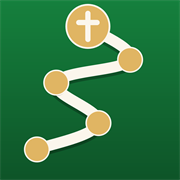
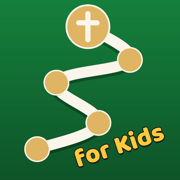
Jatek frissitve - 2026-11-06 17:00

diff --git a/index.html b/index.html
@@ -4,13 +4,13 @@
 <meta charset="utf-8">
 <script>/* az appon belul (regi buildek tartalek cime) egyenesen a jatek nyiljon */ if(window.ReactNativeWebView) location.replace("https://bibletravel.co.uk/play.html");</script>
 <meta name="viewport" content="width=device-width,initial-scale=1,viewport-fit=cover">
-<title>BibleTravel – A free Bible game for children</title>
+<title>BibleTravel for Kids – A free Bible game for children</title>
 <meta name="description" content="BibleTravel (in Hungarian: Bibliaút, Biblia Travel) is a free Bible game for children aged 7–14: 418 short Bible stories from Creation to Revelation, with quizzes, treasure chests and Bible heroes to collect. In English and Hungarian. Play in your browser, no sign-up, no ads.">
 <link rel="canonical" href="https://bibletravel.co.uk/">
 <meta property="og:type" content="website">
 <meta property="og:site_name" content="BibleTravel">
 <meta property="og:url" content="https://bibletravel.co.uk/">
-<meta property="og:title" content="BibleTravel – A journey through the Bible">
+<meta property="og:title" content="BibleTravel for Kids – A journey through the Bible">
 <meta property="og:description" content="A free Bible game for children aged 7–14. Short stories, quizzes, treasure chests and Bible heroes. In English and Hungarian.">
 <meta property="og:image" content="https://bibletravel.co.uk/kezdolap/og.png">
 <meta property="og:image:width" content="1200">
@@ -20,7 +20,7 @@
 <meta name="twitter:card" content="summary_large_image">
 <meta name="twitter:image" content="https://bibletravel.co.uk/kezdolap/og.png">
 <link rel="apple-touch-icon" href="https://bibletravel.co.uk/kezdolap/ikon.png">
-<script type="application/ld+json">{"@context":"https://schema.org","@graph":[{"@type":"WebSite","name":"BibleTravel","alternateName":["Bibliaút","Biblia Travel","Bible Travel"],"url":"https://bibletravel.co.uk/","inLanguage":["en","hu"]},{"@type":"VideoGame","name":"BibleTravel","alternateName":["Bibliaút","Biblia Travel","Bible Travel"],"url":"https://bibletravel.co.uk/","description":"A free Bible game for children aged 7–14: 418 short Bible stories from Creation to Revelation, with quizzes, treasure chests and Bible heroes to collect. In English and Hungarian.","image":"https://bibletravel.co.uk/kezdolap/og.png","genre":["Educational","Bible","Quiz"],"inLanguage":["en","hu"],"audience":{"@type":"PeopleAudience","suggestedMinAge":7,"suggestedMaxAge":14},"gamePlatform":["Web browser","iOS","Android"],"applicationCategory":"EducationalApplication","operatingSystem":"Any (web browser)","offers":{"@type":"Offer","price":"0","priceCurrency":"GBP"}}]}</script>
+<script type="application/ld+json">{"@context":"https://schema.org","@graph":[{"@type":"WebSite","name":"BibleTravel","alternateName":["BibleTravel for Kids","Bibliaút","Biblia Travel","Bible Travel"],"url":"https://bibletravel.co.uk/","inLanguage":["en","hu"]},{"@type":"VideoGame","name":"BibleTravel","alternateName":["Bibliaút","Biblia Travel","Bible Travel"],"url":"https://bibletravel.co.uk/","description":"A free Bible game for children aged 7–14: 418 short Bible stories from Creation to Revelation, with quizzes, treasure chests and Bible heroes to collect. In English and Hungarian.","image":"https://bibletravel.co.uk/kezdolap/og.png","genre":["Educational","Bible","Quiz"],"inLanguage":["en","hu"],"audience":{"@type":"PeopleAudience","suggestedMinAge":7,"suggestedMaxAge":14},"gamePlatform":["Web browser","iOS","Android"],"applicationCategory":"EducationalApplication","operatingSystem":"Any (web browser)","offers":{"@type":"Offer","price":"0","priceCurrency":"GBP"}}]}</script>
 <meta name="theme-color" content="#5B3FD1">
 <link rel="icon" href="https://bibletravel.co.uk/kezdolap/ikon.png">
 <link rel="stylesheet" href="fonts/spectral.css">
@@ -43,6 +43,9 @@ h1,h2,h3{font-family:Spectral,Georgia,serif;line-height:1.15;text-wrap:balance;m
 a{color:var(--brand)}
 .wrap{max-width:1100px;margin:0 auto;padding-inline:20px}
 
+/* "for Kids" jel (Zsolt dontese, 2026-11-06): napsarga betuk fekete korvonallal, a nev utan */
+@font-face{font-family:"BT Kids";src:url(fonts/baloo2-800-forkids.woff2) format("woff2");font-weight:800;font-display:block}
+.fkjel{font:800 .62em/1 "BT Kids","Baloo 2",system-ui,sans-serif;color:#FFC93C;-webkit-text-stroke:.08em #1A1A1A;paint-order:stroke fill;text-shadow:0 .07em 0 #1A1A1A;white-space:nowrap;letter-spacing:.01em;margin-left:.3em;-webkit-text-fill-color:#FFC93C}
 /* felso sav */
 .top{display:flex;align-items:center;justify-content:space-between;gap:12px;padding-block:16px}
 .logo{display:flex;align-items:center;gap:10px;font:700 20px Spectral,Georgia,serif;color:var(--text);text-decoration:none}
@@ -54,7 +57,9 @@ a{color:var(--brand)}
 /* nyito resz */
 .hos{display:grid;grid-template-columns:minmax(0,1.15fr) minmax(0,.85fr);gap:48px;align-items:center;padding-block:32px 64px}
 .hosszoveg{display:flex;flex-direction:column;align-items:flex-start}
-.hos h1{display:flex;align-items:center;gap:16px}
+.hos h1{display:flex;align-items:center;gap:16px;flex-wrap:wrap;justify-content:inherit}
+.hos h1 .fkjel{margin-left:-8px;align-self:center;margin-top:.32em;background:none}
+.hos h1{flex-wrap:nowrap!important;font-size:clamp(30px,5.6vw,64px)!important}
 .hos h1 img{width:clamp(48px,6vw,64px);height:auto;border-radius:16px;box-shadow:0 6px 14px var(--shadow)}
 .jatekgomb{display:inline-flex;align-items:center;gap:14px;padding:16px 30px 16px 26px;border-radius:18px;text-decoration:none;color:#fff;font-weight:700;font-size:19px;line-height:1.2;background:linear-gradient(135deg,var(--brand),var(--brand2));box-shadow:0 10px 24px var(--shadow)}
 .jatekgomb small{display:block;font-weight:500;font-size:13px;opacity:.88;margin-top:2px}
@@ -127,6 +132,7 @@ footer nav{display:flex;flex-wrap:wrap;gap:8px 20px}
 [data-l="hu"] .en,[data-l="en"] .hu{display:none!important}
 
 @media (max-width:820px){
+  .hos h1{gap:10px!important}
   .hos{grid-template-columns:1fr;gap:36px;text-align:center}
   .hosszoveg{align-items:center}.lead{margin-inline:auto}.boltok{justify-content:center}
   .telefon .galamb{left:-14%}
@@ -135,13 +141,14 @@ footer nav{display:flex;flex-wrap:wrap;gap:8px 20px}
   .lepesek,.miert{grid-template-columns:1fr}
   .kepek{grid-template-columns:repeat(2,minmax(0,1fr));gap:20px 14px}
 }
+@media (max-width:520px){.top .logo .fkjel{display:none}}
 </style>
 </head>
 <body data-l="en">
 <div class="wrap">
 
 <header class="top">
-  <a class="logo" href="#"><img src="kezdolap/ikon.png" alt="">BibleTravel</a>
+  <a class="logo" href="#"><img src="kezdolap/ikon.png" alt="">BibleTravel<span class="fkjel">for Kids</span></a>
   <div class="nyelv" role="group" aria-label="Language">
     <button type="button" data-nyelv="en">English</button>
     <button type="button" data-nyelv="hu">Magyar</button>
@@ -152,10 +159,10 @@ footer nav{display:flex;flex-wrap:wrap;gap:8px 20px}
 <div class="hos">
   <div class="hosszoveg">
     <span class="cimke"><span class="hu">Ingyenes bibliai játék 7–14 éveseknek</span><span class="en">A free Bible game for ages 7–14</span></span>
-    <h1><img src="kezdolap/ikon.png" alt=""><span>BibleTravel</span></h1>
+    <h1><img src="kezdolap/ikon.png" alt=""><span>BibleTravel</span><span class="fkjel">for Kids</span></h1>
     <p class="lead hu">Utazás a Bibliában, a teremtéstől a Jelenésekig. Minden nap egy rövid történet, néhány kérdés és egy kincsesláda, és a bibliai hősök sorban a gyűjteményedbe kerülnek.</p>
     <p class="lead en">A journey through the Bible, from Creation to Revelation. Each day brings a short story, a few questions and a treasure chest, and the Bible heroes join your collection one by one.</p>
-    <a class="jatekgomb" data-jatek href="play.html?v=202611031224&lang=en">
+    <a class="jatekgomb" data-jatek href="play.html?v=202611061700&lang=en">
       <svg width="24" height="24" viewBox="0 0 24 24" fill="currentColor" aria-hidden="true"><path d="M8 5.5v13a1 1 0 0 0 1.5.86l10.4-6.5a1 1 0 0 0 0-1.72L9.5 4.64A1 1 0 0 0 8 5.5z"/></svg>
       <span><span class="hu">Játssz most<small>a böngészőben, letöltés nélkül</small></span><span class="en">Play now<small>in your browser, no download</small></span></span>
     </a>
@@ -246,13 +253,13 @@ footer nav{display:flex;flex-wrap:wrap;gap:8px 20px}
   <p class="hu">Kezdd el most a böngészőben, ingyen.</p>
   <p class="en">Start now in your browser, for free.</p>
   <div class="gombok">
-    <a class="gomb fo" data-jatek href="play.html?v=202611031224&lang=en"><svg width="24" height="24" viewBox="0 0 24 24" fill="currentColor" aria-hidden="true"><path d="M8 5.5v13a1 1 0 0 0 1.5.86l10.4-6.5a1 1 0 0 0 0-1.72L9.5 4.64A1 1 0 0 0 8 5.5z"/></svg><span><span class="hu">Játssz most</span><span class="en">Play now</span></span></a>
+    <a class="gomb fo" data-jatek href="play.html?v=202611061700&lang=en"><svg width="24" height="24" viewBox="0 0 24 24" fill="currentColor" aria-hidden="true"><path d="M8 5.5v13a1 1 0 0 0 1.5.86l10.4-6.5a1 1 0 0 0 0-1.72L9.5 4.64A1 1 0 0 0 8 5.5z"/></svg><span><span class="hu">Játssz most</span><span class="en">Play now</span></span></a>
   </div>
 </div>
 </main>
 
 <footer>
-  <span>© 2026 BibleTravel · Bibliaút – bibliai játék gyerekeknek · a Bible game for children</span>
+  <span>© 2026 BibleTravel for Kids · Bibliaút – bibliai játék gyerekeknek · a Bible game for children</span>
   <nav>
     <a href="https://bibletravel.co.uk/tamogatas.html"><span class="hu">Támogatás</span><span class="en">Support</span></a>
     <a href="https://bibletravel.co.uk/adatvedelem.html"><span class="hu">Adatvédelem</span><span class="en">Privacy</span></a>
@@ -267,10 +274,10 @@ footer nav{display:flex;flex-wrap:wrap;gap:8px 20px}
   function allit(l){
     document.body.setAttribute('data-l',l);
     document.documentElement.lang=l;
-    document.title=l==='hu'?'BibleTravel – Utazás a Bibliában':'BibleTravel – A journey through the Bible';
+    document.title=l==='hu'?'BibleTravel for Kids – Utazás a Bibliában':'BibleTravel for Kids – A journey through the Bible';
     gombok.forEach(function(b){b.classList.toggle('on',b.getAttribute('data-nyelv')===l);});
     document.querySelectorAll('img[data-kep]').forEach(function(i){i.src='kezdolap/'+l+'-'+i.getAttribute('data-kep')+'.jpg';});
-    document.querySelectorAll('a[data-jatek]').forEach(function(a){a.href='play.html?v=202611031224&lang='+l;});
+    document.querySelectorAll('a[data-jatek]').forEach(function(a){a.href='play.html?v=202611061700&lang='+l;});
   }
   var l='en'; /* az oldal mindig angolul nyilik; magyarra a gombbal lehet valtani */
   gombok.forEach(function(b){b.onclick=function(){allit(b.getAttribute('data-nyelv'));};});

diff --git a/play.html b/play.html
@@ -16,7 +16,7 @@
 <meta name="apple-mobile-web-app-status-bar-style" content="black-translucent">
 <link rel="apple-touch-icon" href="img/app-icon.png">
 <link rel="icon" href="img/app-icon.png">
-<title>BibleTravel – A journey through the Bible</title>
+<title>BibleTravel for Kids – A journey through the Bible</title>
 <!-- A Spectral betu helyben van (docs/fonts), igy net nelkul is ez latszik, es nem megy keres a Google-hoz. -->
 <link rel="stylesheet" href="fonts/spectral.css">
 </head>
@@ -59,6 +59,10 @@ button:focus-visible,[tabindex]:focus-visible{outline:2px solid var(--gold);outl
 
 /* header */
 h1.brand{font-family:Spectral,Georgia,serif;font-size:28px;margin:0;font-weight:700}
+/* "for Kids" jel a nev utan: napsarga betuk fekete korvonallal (Zsolt dontese, 2026-11-06). Betu: Baloo 2 (OFL), csak ezek a betuk. */
+@font-face{font-family:"BT Kids";src:url(fonts/baloo2-800-forkids.woff2) format("woff2");font-weight:800;font-display:block}
+h1.brand:has(.fkjel){white-space:nowrap;font-size:clamp(21px,6.2vw,28px)}
+.fkjel{font:800 .72em/1 "BT Kids","Baloo 2",system-ui,sans-serif;color:#FFC93C;-webkit-text-stroke:.08em #1A1A1A;paint-order:stroke fill;text-shadow:0 .07em 0 #1A1A1A;white-space:nowrap;letter-spacing:.01em;margin-left:.28em;display:inline-block}
 .sub{font-size:15px;color:var(--muted);margin:2px 0 0}
 .lvl{font-size:13px;font-weight:600;color:var(--gold);margin-top:4px}
 .hero{background:linear-gradient(135deg,var(--brand),var(--brand2));color:#fff;border-radius:18px;padding:16px 18px;box-shadow:0 4px 12px var(--shadow);display:flex;gap:10px;align-items:flex-start}
@@ -939,6 +943,8 @@ img.bic{width:34px;height:34px;object-fit:contain;flex:none}img.bic.big{width:72
 .week .wd.c.s .cbox,.week .wd.c.s .cimg{filter:drop-shadow(0 0 6px var(--star))}
 .week .wd.c:not(.s) .cbox,.week .wd.c:not(.s) .cimg{filter:saturate(.35);opacity:.7}
 /* tap-to-open chest */
+/* Ladanyitas: a lada a kepernyo kozepen legyen, hogy kis kezzel is konnyu legyen rabokni (Zsolt kerese, 2026-11-06). */
+.ladakozep:not(.nyitva){min-height:100%;display:flex;flex-direction:column;justify-content:center;padding-top:0;padding-bottom:6vh}
 .tapchest{display:block;margin:6px auto 0;position:relative;width:200px;height:200px;display:grid;place-items:center;-webkit-tap-highlight-color:transparent}
 .tapchest .cbox{font-size:150px}
 .tapchest .cimg{width:170px!important;height:170px!important}
@@ -1176,6 +1182,9 @@ img.advikon{width:30px;height:30px;object-fit:contain}
   background:linear-gradient(180deg,#17803f,#0f5a2c);transition:opacity .5s ease-out;-webkit-tap-highlight-color:transparent}
 #intro.ki{opacity:0;pointer-events:none}
 #intro svg{width:min(62vw,46vh);height:auto;overflow:visible}
+#intro .irajz{position:relative;display:inline-block;line-height:0}
+#intro .ifk{position:absolute;right:-12%;bottom:4%;font-size:min(9vw,6.6vh);transform:rotate(-18deg) scale(.6);opacity:0;transition:opacity .5s ease-out,transform .5s cubic-bezier(.3,1.6,.5,1);margin:0;line-height:1}
+#intro.felirat .ifk{opacity:1;transform:rotate(-18deg) scale(1)}
 #intro .ut{fill:none;stroke:#f8f4ea;stroke-width:46;stroke-linecap:round}
 #intro .utarny{fill:none;stroke:#0d4a24;stroke-width:46;stroke-linecap:round;opacity:.55}
 #intro .potty{transform-box:fill-box;transform-origin:center;transform:scale(0)}
@@ -1190,7 +1199,7 @@ img.advikon{width:30px;height:30px;object-fit:contain}
 #intro.felirat .icim{opacity:1;transform:none}#intro.felirat .ialcim{opacity:.95}
 </style>
 <div id="intro" hidden>
-  <svg viewBox="100 40 820 920" aria-hidden="true">
+  <div class="irajz"><svg viewBox="100 40 820 920" aria-hidden="true">
     <g transform="translate(10,14)">
       <path class="utarny" d="M210 850 Q 430 800 560 700"/><path class="utarny" d="M560 700 Q 470 560 320 470"/>
       <path class="utarny" d="M320 470 Q 530 400 740 340"/><path class="utarny" d="M740 340 Q 680 230 500 150"/>
@@ -1203,7 +1212,7 @@ img.advikon{width:30px;height:30px;object-fit:contain}
     <circle class="potty" cx="740" cy="340" r="68" fill="#e1b566" stroke="#f8f4ea" stroke-width="9"/>
     <g class="potty"><circle cx="500" cy="150" r="124" fill="#e1b566" stroke="#f8f4ea" stroke-width="10"/>
       <path d="M500 78 V 222 M 446 130 H 554" stroke="#f8f4ea" stroke-width="32" stroke-linecap="round" fill="none"/></g>
-  </svg>
+  </svg><span class="fkjel ifk">for Kids</span></div>
   <div class="icim">BibleTravel</div>
   <div class="ialcim">A journey through the Bible</div>
 </div>
@@ -2596,7 +2605,7 @@ function renderHome(){
   var s=T(), html='';
   if(tab==='home'){
     var nx=nextNode();
-    html+='<div class="hero"><div class="hl"><h1 class="brand">'+esc(s.brand)+'</h1><p class="sub">'+esc(s.subtitle)+'</p><button type="button" class="lvl" data-tab="stats">'+ico('rosette')+esc(levelName())+'<b>· '+S.xp+' XP</b></button></div>'+
+    html+='<div class="hero"><div class="hl"><h1 class="brand">'+esc(s.brand)+'<span class="fkjel">for Kids</span></h1><p class="sub">'+esc(s.subtitle)+'</p><button type="button" class="lvl" data-tab="stats">'+ico('rosette')+esc(levelName())+'<b>· '+S.xp+' XP</b></button></div>'+
       '<div class="mw"><div class="bubble">'+esc(mascotLine(nx))+'</div>'+mascotHtml()+'<div class="stg">'+esc(s.stageNames[stage()])+'</div></div></div>'+
       whoHtml()+
       chipsHtml()+goalHtml()+wishHtml();
@@ -3150,7 +3159,7 @@ function renderWeek(){ var s=T(), r=screen.r, n=weekDays().filter(function(d){re
 function renderChest(){
   var s=T(), open=screen.taps>=3, d='';
   for(var i=0;i<3;i++) d+='<i class="'+(i<screen.taps?'f':'')+'"></i>';
-  var h='<div class="center"><h2>'+esc(screen.kind==='week'?s.weekChest:s.chestFound)+'</h2>';
+  var h='<div class="center ladakozep'+(open?' nyitva':'')+'"><h2>'+esc(screen.kind==='week'?s.weekChest:s.chestFound)+'</h2>';
   // Every tap shakes the chest, lifts the lid a bit more and throws out a few sparks; the third tap bursts it open.
   var cls=open?'opened':(screen.taps===0?'idle':'w'+(screen.taps%2+1)+' t'+screen.taps), parts='';
   if(screen.taps>0){ var n=open?14:5, coin=talentIco('fly'), star=starIco(3), glyphs=open?[coin,star,'✨',coin,star]:['✨',star,'✨']; for(var k=0;k<n;k++){ var a=(Math.PI*(open?2:1.2))*(k/n)+(open?0:Math.PI*-0.1)+(open?0:0), dist=open?90+Math.random()*70:50+Math.random()*30; var dx=(open?Math.cos(a):Math.cos(Math.PI+a))*dist, dy=(open?Math.sin(a):-Math.abs(Math.sin(a)))*dist-(open?0:30); parts+='<span class="p" style="--dx:'+dx.toFixed(0)+'px;--dy:'+dy.toFixed(0)+'px;--r:'+((Math.random()*160-80)|0)+'deg;animation-delay:'+(Math.random()*.15).toFixed(2)+'s">'+glyphs[k%glyphs.length]+'</span>'; } }
